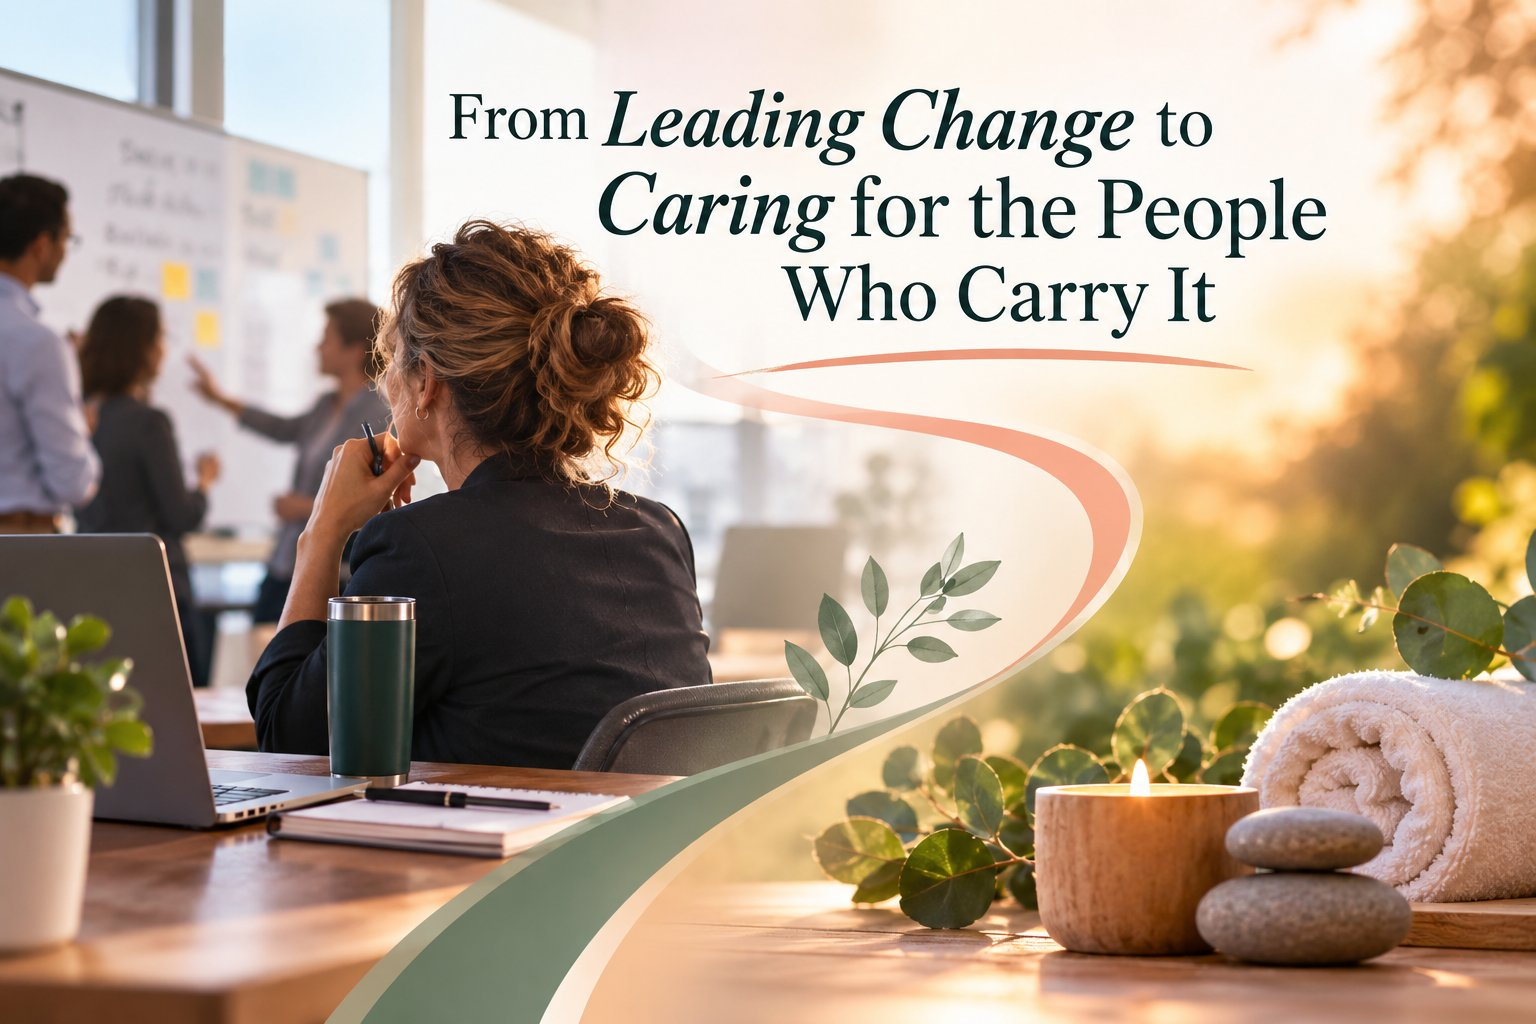
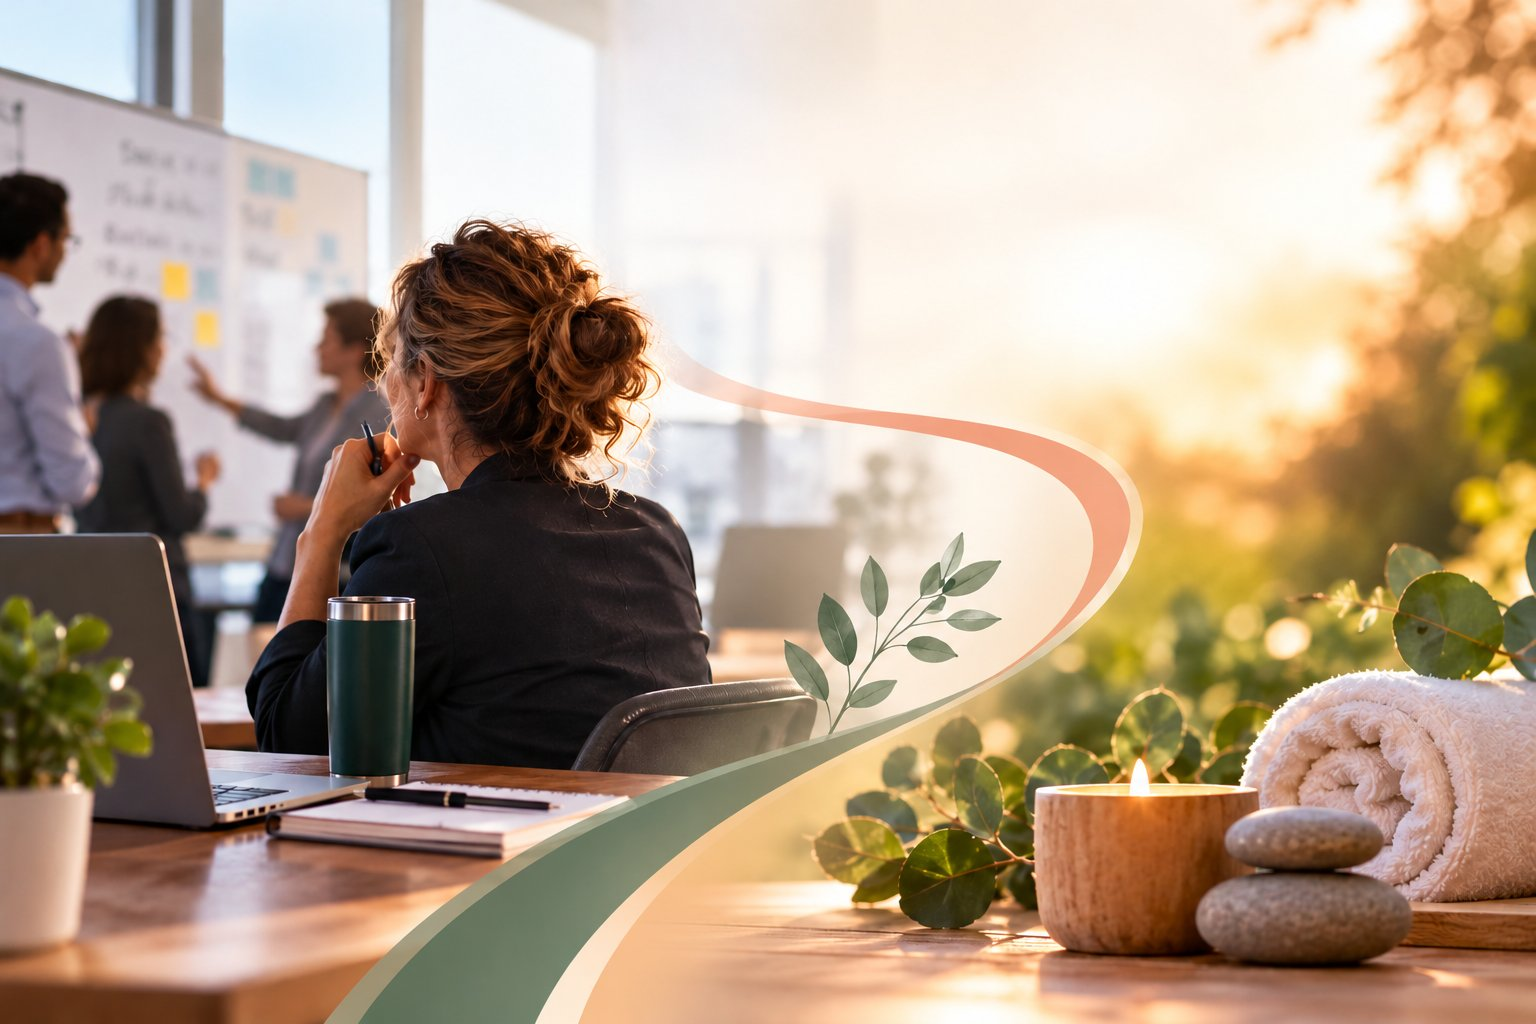
Soften the approach rings and use Laura's title-free blog photo.
The clipped coral arc is now a complete faded circle, and the hub card can crop the new image while the article still shows the full frame.

diff --git a/src/components/approach-section.tsx b/src/components/approach-section.tsx
@@ -37,9 +37,23 @@ const steps = [
 export function ApproachSection() {
   return (
     <section className="relative overflow-hidden bg-ivory py-20">
-      <div className="pointer-events-none absolute -right-20 -top-16 h-72 w-72 rounded-full border-[16px] border-sage/30" />
+      <div
+        aria-hidden="true"
+        className="pointer-events-none absolute right-2 top-8 h-56 w-56 sm:right-6 sm:h-72 sm:w-72"
+        style={{
+          background:
+            "radial-gradient(circle, transparent 58%, rgba(130,155,113,0.34) 68%, rgba(130,155,113,0.1) 80%, transparent 90%)",
+        }}
+      />
       <LeafSprig className="pointer-events-none absolute -right-2 top-0 h-56 w-40 text-sage/55 sm:h-72 sm:w-52" />
-      <div className="pointer-events-none absolute -bottom-24 -left-24 h-64 w-64 rounded-full border-[16px] border-coral/30" />
+      <div
+        aria-hidden="true"
+        className="pointer-events-none absolute bottom-8 left-4 hidden h-64 w-64 sm:block"
+        style={{
+          background:
+            "radial-gradient(circle, transparent 56%, rgba(249,142,119,0.4) 66%, rgba(249,142,119,0.12) 78%, transparent 90%)",
+        }}
+      />
 
       <div className="relative mx-auto max-w-7xl px-4 sm:px-6 lg:px-8">
         <p className="text-xs font-semibold uppercase tracking-[0.28em] text-sage">

diff --git a/src/app/blog/page.tsx b/src/app/blog/page.tsx
@@ -54,7 +54,7 @@ export default function BlogPage() {
                         alt={post.imageAlt ?? post.title}
                         width={1536}
                         height={1024}
-                        className="h-auto w-full"
+                        className="aspect-[16/9] w-full object-cover object-center"
                       />
                     ) : null}
                     <div className="p-6 sm:p-8">
